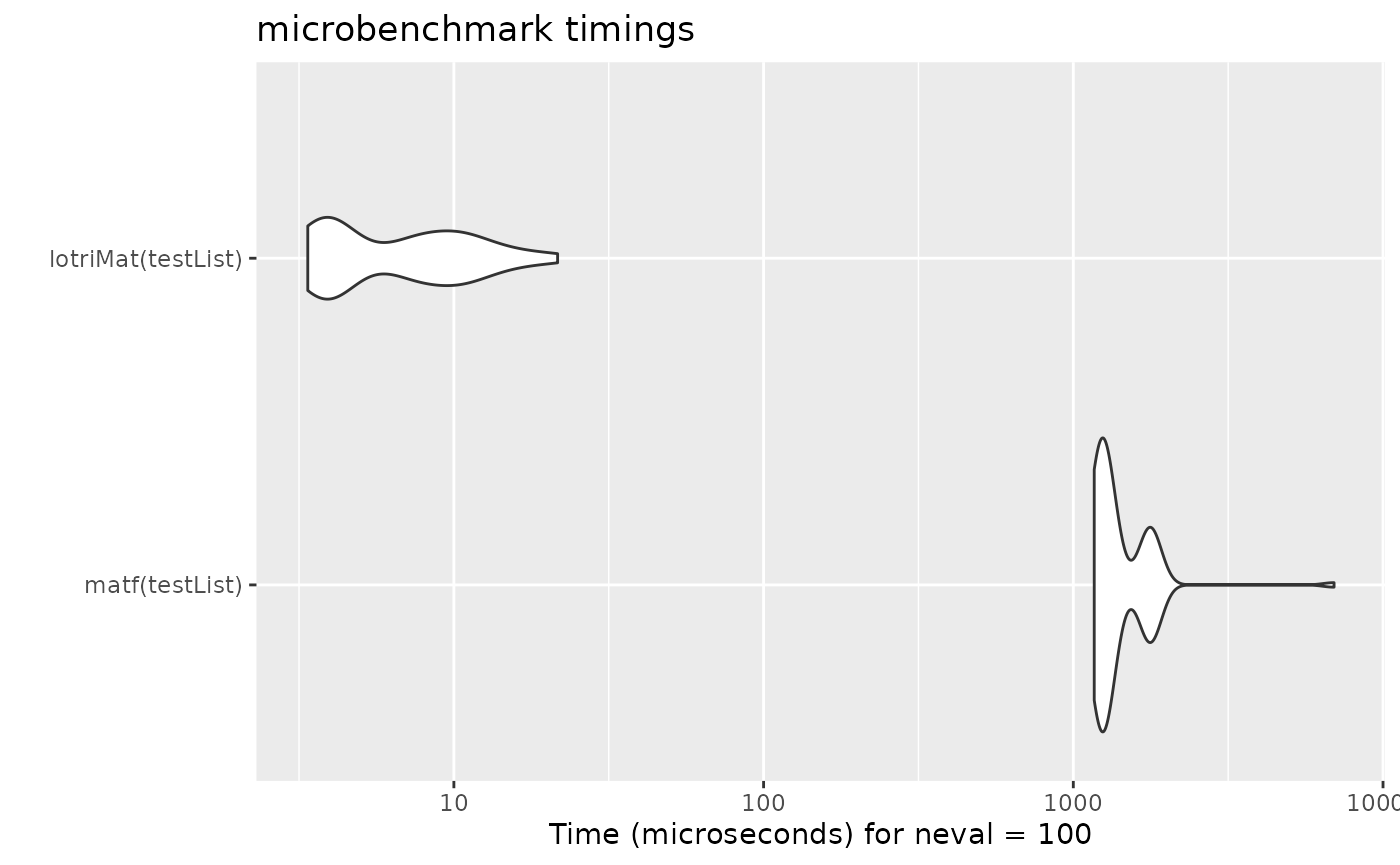
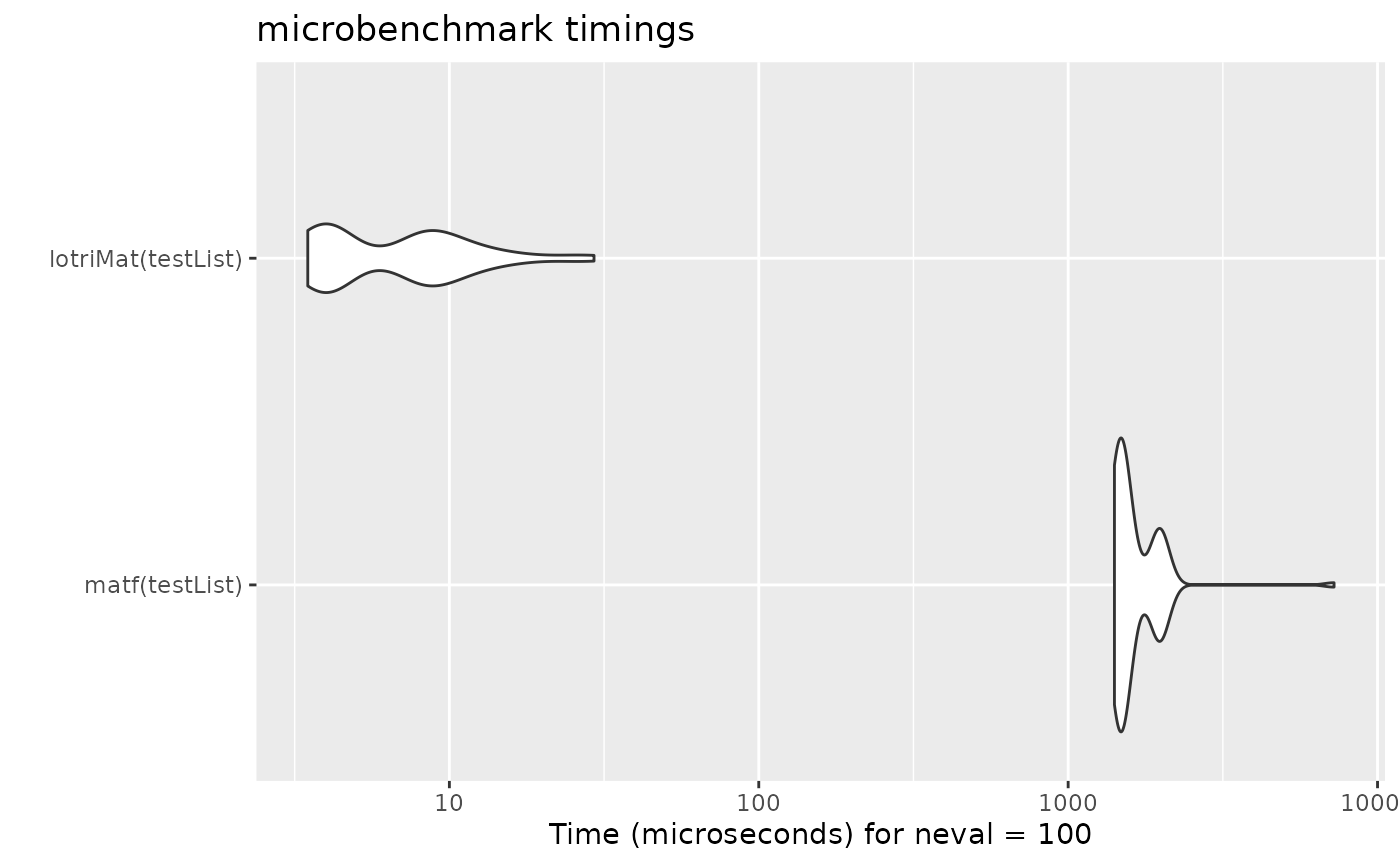
Deploying to gh-pages from @ nlmixr2/lotri@167004b61410deb893b6dac468eec0306d8b67a4 🚀

diff --git a/reference/dot-lotriPointers.html b/reference/dot-lotriPointers.html
@@ -60,34 +60,34 @@
     <div class="sourceCode"><pre class="sourceCode r"><code><span class="r-in"><span></span></span>
 <span class="r-in"><span><span class="fu">.lotriPointers</span><span class="op">(</span><span class="op">)</span></span></span>
 <span class="r-out co"><span class="r-pr">#&gt;</span> $lotriLstToMat</span>
-<span class="r-out co"><span class="r-pr">#&gt;</span> &lt;pointer: 0x7fa06e417590&gt;</span>
+<span class="r-out co"><span class="r-pr">#&gt;</span> &lt;pointer: 0x7f313d49c590&gt;</span>
 <span class="r-out co"><span class="r-pr">#&gt;</span> </span>
 <span class="r-out co"><span class="r-pr">#&gt;</span> $asLotriMat</span>
-<span class="r-out co"><span class="r-pr">#&gt;</span> &lt;pointer: 0x7fa06e415280&gt;</span>
+<span class="r-out co"><span class="r-pr">#&gt;</span> &lt;pointer: 0x7f313d49a280&gt;</span>
 <span class="r-out co"><span class="r-pr">#&gt;</span> </span>
 <span class="r-out co"><span class="r-pr">#&gt;</span> $lotriSep</span>
-<span class="r-out co"><span class="r-pr">#&gt;</span> &lt;pointer: 0x7fa06e4193d0&gt;</span>
+<span class="r-out co"><span class="r-pr">#&gt;</span> &lt;pointer: 0x7f313d49e3d0&gt;</span>
 <span class="r-out co"><span class="r-pr">#&gt;</span> </span>
 <span class="r-out co"><span class="r-pr">#&gt;</span> $lotriAllNames</span>
-<span class="r-out co"><span class="r-pr">#&gt;</span> &lt;pointer: 0x7fa06e419980&gt;</span>
+<span class="r-out co"><span class="r-pr">#&gt;</span> &lt;pointer: 0x7f313d49e980&gt;</span>
 <span class="r-out co"><span class="r-pr">#&gt;</span> </span>
 <span class="r-out co"><span class="r-pr">#&gt;</span> $lotriGetBounds</span>
-<span class="r-out co"><span class="r-pr">#&gt;</span> &lt;pointer: 0x7fa06e415930&gt;</span>
+<span class="r-out co"><span class="r-pr">#&gt;</span> &lt;pointer: 0x7f313d49a930&gt;</span>
 <span class="r-out co"><span class="r-pr">#&gt;</span> </span>
 <span class="r-out co"><span class="r-pr">#&gt;</span> $lotriMaxNu</span>
-<span class="r-out co"><span class="r-pr">#&gt;</span> &lt;pointer: 0x7fa06e418e60&gt;</span>
+<span class="r-out co"><span class="r-pr">#&gt;</span> &lt;pointer: 0x7f313d49de60&gt;</span>
 <span class="r-out co"><span class="r-pr">#&gt;</span> </span>
 <span class="r-out co"><span class="r-pr">#&gt;</span> $isLotri</span>
-<span class="r-out co"><span class="r-pr">#&gt;</span> &lt;pointer: 0x7fa06e419850&gt;</span>
+<span class="r-out co"><span class="r-pr">#&gt;</span> &lt;pointer: 0x7f313d49e850&gt;</span>
 <span class="r-out co"><span class="r-pr">#&gt;</span> </span>
 <span class="r-out co"><span class="r-pr">#&gt;</span> $lotriRcm</span>
-<span class="r-out co"><span class="r-pr">#&gt;</span> &lt;pointer: 0x7fa06e423c80&gt;</span>
+<span class="r-out co"><span class="r-pr">#&gt;</span> &lt;pointer: 0x7f313d4a8c80&gt;</span>
 <span class="r-out co"><span class="r-pr">#&gt;</span> </span>
 <span class="r-out co"><span class="r-pr">#&gt;</span> $lotriNearPDc</span>
-<span class="r-out co"><span class="r-pr">#&gt;</span> &lt;pointer: 0x7fa06e41ef00&gt;</span>
+<span class="r-out co"><span class="r-pr">#&gt;</span> &lt;pointer: 0x7f313d4a3f00&gt;</span>
 <span class="r-out co"><span class="r-pr">#&gt;</span> </span>
 <span class="r-out co"><span class="r-pr">#&gt;</span> $lotriNearPDsexp</span>
-<span class="r-out co"><span class="r-pr">#&gt;</span> &lt;pointer: 0x7fa06e41f440&gt;</span>
+<span class="r-out co"><span class="r-pr">#&gt;</span> &lt;pointer: 0x7f313d4a4440&gt;</span>
 <span class="r-out co"><span class="r-pr">#&gt;</span> </span>
 </code></pre></div>
     </div>

diff --git a/articles/lotri-motivation.html b/articles/lotri-motivation.html
@@ -228,9 +228,9 @@ concatenation with <code>lotriMat</code></p>
 <span></span>
 <span><span class="fu"><a href="https://rdrr.io/r/base/print.html" class="external-link">print</a></span><span class="op">(</span><span class="va">mb</span><span class="op">)</span></span>
 <span><span class="co">#&gt; Unit: microseconds</span></span>
-<span><span class="co">#&gt;                expr      min       lq       mean    median        uq      max</span></span>
-<span><span class="co">#&gt;      matf(testList) 1168.281 1218.155 1442.21245 1270.6735 1738.3305 6949.567</span></span>
-<span><span class="co">#&gt;  lotriMat(testList)    3.375    3.876    7.54603    6.8605   10.2555   21.622</span></span>
+<span><span class="co">#&gt;                expr      min       lq       mean    median       uq      max</span></span>
+<span><span class="co">#&gt;      matf(testList) 1411.315 1463.592 1672.55571 1501.9485 1949.985 7236.267</span></span>
+<span><span class="co">#&gt;  lotriMat(testList)    3.486    4.037    7.91901    7.4535    9.488   29.345</span></span>
 <span><span class="co">#&gt;  neval</span></span>
 <span><span class="co">#&gt;    100</span></span>
 <span><span class="co">#&gt;    100</span></span>

diff --git a/reference/dot-lotriPointers.md b/reference/dot-lotriPointers.md
@@ -23,33 +23,33 @@ Matthew L. Fidler
 
 .lotriPointers()
 #> $lotriLstToMat
-#> <pointer: 0x7fa06e417590>
+#> <pointer: 0x7f313d49c590>
 #> 
 #> $asLotriMat
-#> <pointer: 0x7fa06e415280>
+#> <pointer: 0x7f313d49a280>
 #> 
 #> $lotriSep
-#> <pointer: 0x7fa06e4193d0>
+#> <pointer: 0x7f313d49e3d0>
 #> 
 #> $lotriAllNames
-#> <pointer: 0x7fa06e419980>
+#> <pointer: 0x7f313d49e980>
 #> 
 #> $lotriGetBounds
-#> <pointer: 0x7fa06e415930>
+#> <pointer: 0x7f313d49a930>
 #> 
 #> $lotriMaxNu
-#> <pointer: 0x7fa06e418e60>
+#> <pointer: 0x7f313d49de60>
 #> 
 #> $isLotri
-#> <pointer: 0x7fa06e419850>
+#> <pointer: 0x7f313d49e850>
 #> 
 #> $lotriRcm
-#> <pointer: 0x7fa06e423c80>
+#> <pointer: 0x7f313d4a8c80>
 #> 
 #> $lotriNearPDc
-#> <pointer: 0x7fa06e41ef00>
+#> <pointer: 0x7f313d4a3f00>
 #> 
 #> $lotriNearPDsexp
-#> <pointer: 0x7fa06e41f440>
+#> <pointer: 0x7f313d4a4440>
 #> 
 ```

diff --git a/articles/lotri-motivation.md b/articles/lotri-motivation.md
@@ -179,9 +179,9 @@ mb <- microbenchmark(matf(testList),lotriMat(testList))
 
 print(mb)
 #> Unit: microseconds
-#>                expr      min       lq       mean    median        uq      max
-#>      matf(testList) 1168.281 1218.155 1442.21245 1270.6735 1738.3305 6949.567
-#>  lotriMat(testList)    3.375    3.876    7.54603    6.8605   10.2555   21.622
+#>                expr      min       lq       mean    median       uq      max
+#>      matf(testList) 1411.315 1463.592 1672.55571 1501.9485 1949.985 7236.267
+#>  lotriMat(testList)    3.486    4.037    7.91901    7.4535    9.488   29.345
 #>  neval
 #>    100
 #>    100
